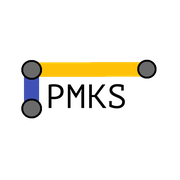
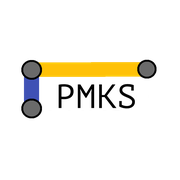
Center the PMKS lettering, and retake the README screenshots
Without the +, the lettering sat left of where the old wordmark had it. It
moves right by half the + it lost, in the logos, the app icons and the
favicon, so the composition matches the old one.

All thirteen README pictures are retaken against this branch, so they show
the new name. Running the script showed that two had been broken for some
time, and three more had a graph row closed:
- edit-panel and cylinders opened Backhoe_Bucket, a template since renamed
  to Excavator_Bucket. The script fell back to treating the name as a URL,
  and both pictures showed a "could not be opened" toast over an empty grid.
- cylinders selected link DGH, which no longer exists. It now graphs the
  bucket (BEIJK), and its caption says so.
- expandGraphs clicked the first row without checking it, so it closed
  Position, which now starts open. It now opens only rows that are closed.
The script now refuses an unknown template and throws on a missing joint
or link, instead of taking the picture anyway.

Changed region(s): [[0.25, 0.4444, 0.75, 0.6111]]

diff --git a/README.md b/README.md
@@ -138,9 +138,9 @@ because a weld is precisely the statement that two bodies do *not* move relative
 | **Lock** | A mark that holds a joint (or a whole link) still against dragging, so a shared linkage can only be adjusted where its author intended |
 | **Background image** | A photograph or drawing pinned behind the grid, scaled and rotated, to build a linkage on top of a real machine. Never uploaded anywhere |
 
-![The Edit panel open on a joint of a welded loader bucket](docs/images/readme/edit-panel.png)
+![The Edit panel open on a joint of a welded excavator bucket](docs/images/readme/edit-panel.png)
 
-![A backhoe bucket driven by a hydraulic cylinder, with the boom's angular kinematics graphed](docs/images/readme/cylinders.png)
+![An excavator bucket driven by a hydraulic cylinder, with the bucket's angular kinematics graphed](docs/images/readme/cylinders.png)
 
 A driven cylinder is a *linear* input, and the app knows it. The transport row reads
 **`Opening · Reverses`** and a distance rather than an angle; the scrub handle runs across the

diff --git a/docs/short-notes.md b/docs/short-notes.md
@@ -2905,3 +2905,13 @@ with 422 while the PR belongs to a stack. Snapshot the membership, POST to
 entries in place. This is a metadata operation separate from rebasing the branches; recreating
 the groups does not replace the code checks. The [Stacks API](https://docs.github.com/en/rest/pulls/stacks)
 describes the endpoints.
+
+### `readme-shots` photographs whatever opens, so look at every picture it writes
+
+`e2e/readme-shots.mjs` always writes a picture, even when a step fails. A template renamed in the
+library (`Backhoe_Bucket` to `Excavator_Bucket`) was opened as if its old name were a URL, and the
+README showed a "could not be opened" toast over an empty grid for a release. A link id that no
+longer existed (`DGH`) selected nothing, and `expandGraphs` closed the Position row, which an
+analysis panel now opens on its own. The script now stops on an unknown template, throws on a
+missing joint or link, and opens only rows that are closed. A run still prints a path for every
+picture, so look at the pictures.
